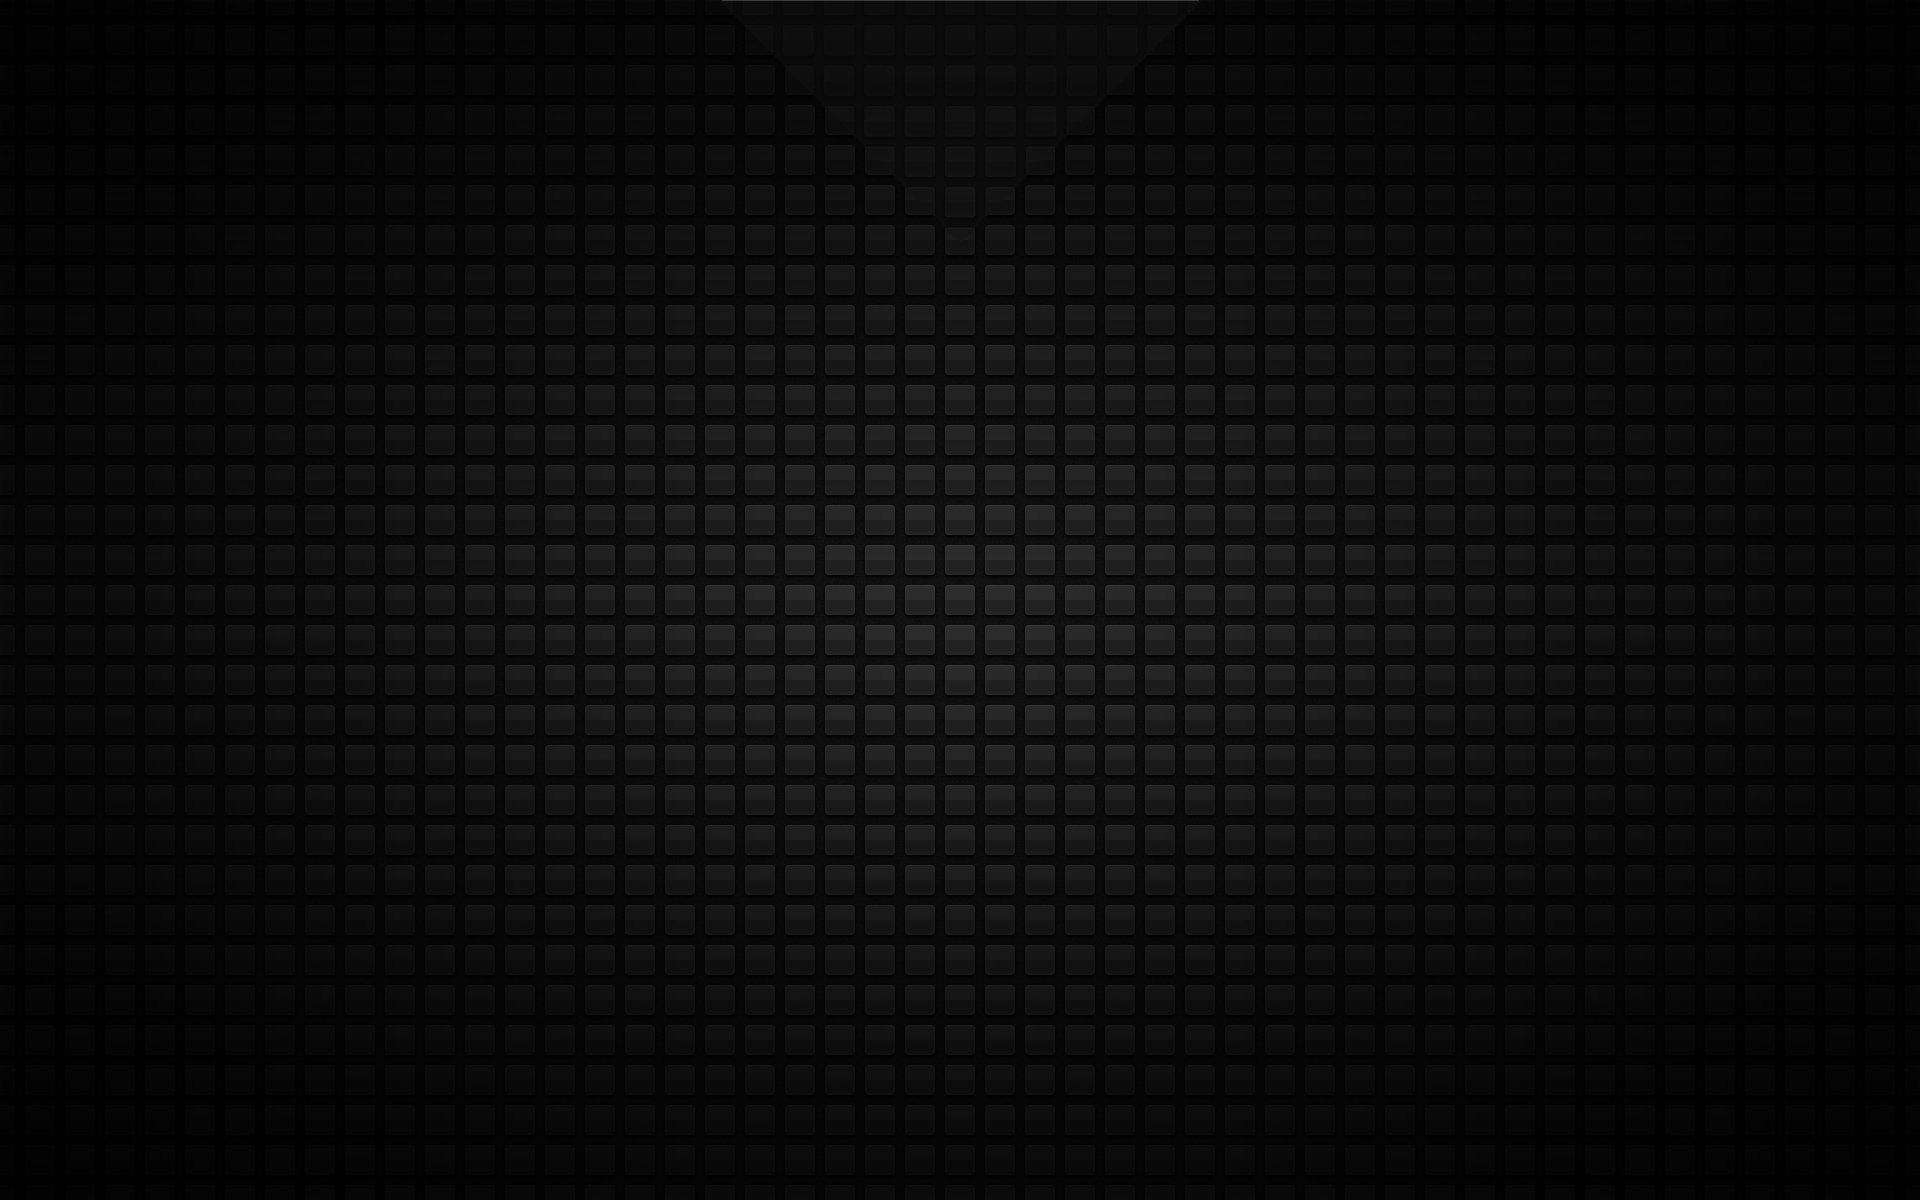
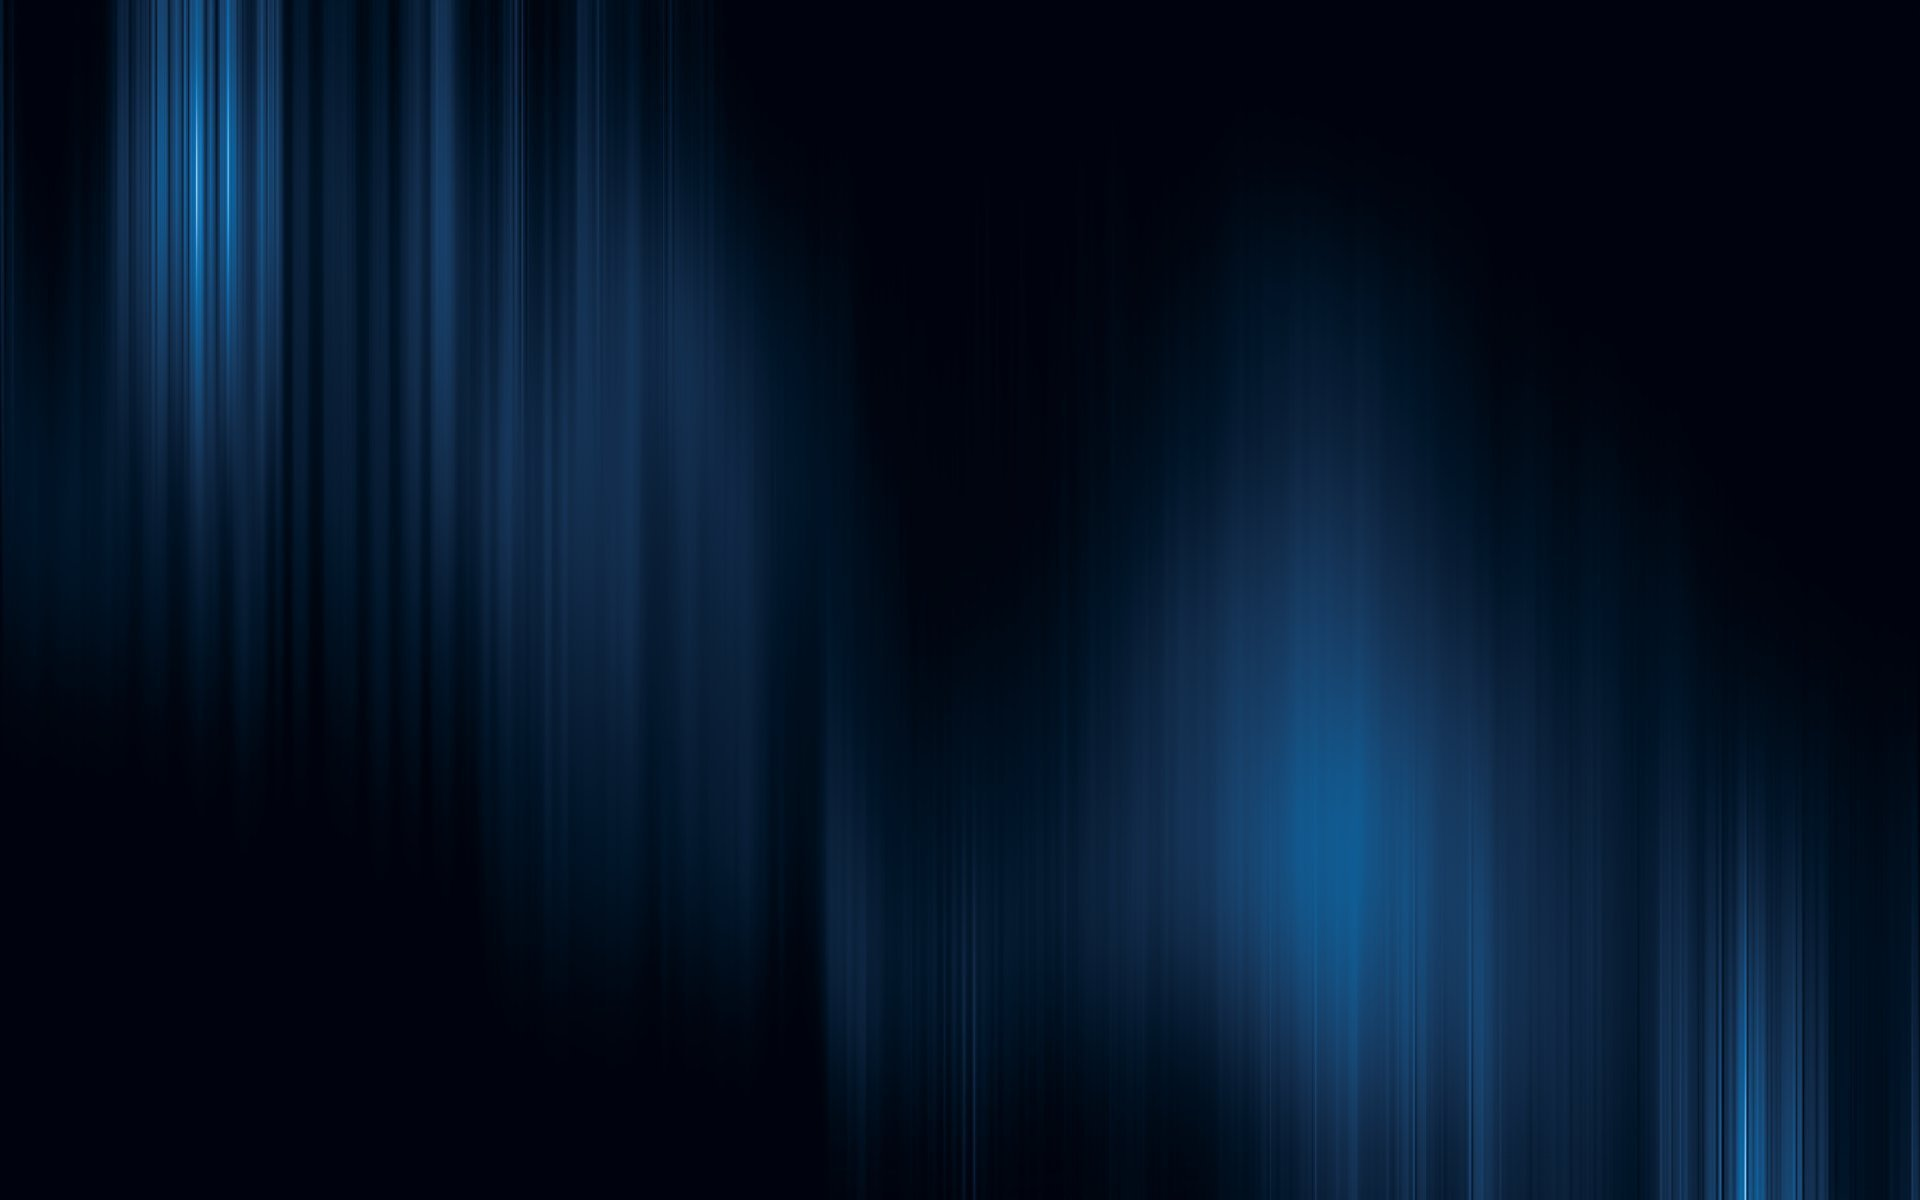
Creating a new UI, separating visual components into small ones and finished the first structure to change views

diff --git a/src/main/java/com/kerberus/view/MainView.css b/src/main/java/com/kerberus/view/MainView.css
@@ -1,17 +1,57 @@
-.txtAreaSqlValidationReturn {
-    -fx-background-insets: 0;
-    -fx-background-color: black;
-    -fx-control-inner-background: #666666;
+.mainViewContainer {
+	-fx-background-color: rgba(0, 0, 0, 0.2);
+	-fx-pref-height: 600px;
+	-fx-pref-width: 800px;
+}
+
+.txtAreaSqlStatement {
+    -fx-background-color: rgba(255, 255, 255, 0.4);
     -fx-pref-height: 300px;
 	-fx-pref-width: 250px;
 }
 
-.txtAreaSqlStatement {
-    -fx-background-insets: 0;
-    -fx-background-color: black;
-    -fx-control-inner-background: #666666;
+.txtAreaSqlStatement .scroll-pane {
+    -fx-background-color: transparent;
+}
+
+.txtAreaSqlStatement .scroll-pane .viewport {
+    -fx-background-color: transparent;
+}
+
+
+.txtAreaSqlStatement .scroll-pane .content {
+    -fx-background-color: transparent;
+}
+
+.txtAreaSqlStatement:focused {
+    -fx-border-style: solid;
+    -fx-border-width: 2;
+    -fx-border-color: rgba(255, 255, 255, 0.8);
+}
+
+.txtAreaSqlValidationReturn {
+    -fx-background-color: rgba(255, 255, 255, 0.4);
     -fx-pref-height: 300px;
 	-fx-pref-width: 250px;
+}
+
+.txtAreaSqlValidationReturn .scroll-pane {
+    -fx-background-color: transparent;
+}
+
+.txtAreaSqlValidationReturn .scroll-pane .viewport {
+    -fx-background-color: transparent;
+}
+
+
+.txtAreaSqlValidationReturn .scroll-pane .content {
+    -fx-background-color: transparent;
+}
+
+.txtAreaSqlValidationReturn:focused {
+    -fx-border-style: solid;
+    -fx-border-width: 2;
+    -fx-border-color: rgba(255, 255, 255, 0.8);
 }
 
 .txtAreaSqlValidationReturnContainer {
@@ -24,23 +64,12 @@
 	-fx-pref-width: 300px;
 }
 
-.mainViewContainer {
-	-fx-pref-height: 600px;
-	-fx-pref-width: 800px;
-}
-
-.sqlValidationReturnContainer {
-	
-}
-
 .validationReturnLabel {
 	-fx-font-size: 24;
-}
-
-.sqlStatementLabelContainer {
-	
+	-fx-text-fill: white;
 }
 
 .sqlStatementsLabel {
 	-fx-font-size: 24;
+	-fx-text-fill: white;
 }

diff --git a/src/main/java/com/kerberus/view/Main.css b/src/main/java/com/kerberus/view/Main.css
@@ -1,18 +1,14 @@
 .mainContainer {
-	-fx-pref-height: 600px;
-	-fx-pref-width: 1000px; 
+	
 }
 
 .headerContainer {
 	-fx-pref-height: 600px;
-	-fx-pref-width: 200px;
-	-fx-background-color: #0d0d0d;
-	-fx-alignment: left;
-	-fx-opacity: 0.8;
-    -fx-border-style: solid;
+	-fx-pref-width: 200px; 
+	-fx-border-style: solid;
     -fx-border-width: 2;
-    -fx-border-radius: 5;
     -fx-border-color: #fff;
+    -fx-background-color: rgba(0, 0, 0, 0.2);
 }
 
 

diff --git a/src/main/java/com/kerberus/view/Background.css b/src/main/java/com/kerberus/view/Background.css
@@ -1,0 +1,6 @@
+.backgroundContainer {
+	-fx-background-radius: 20;
+	-fx-border-radius: 20;
+	-fx-border-width: 5;
+	-fx-border-color: blue;
+}
